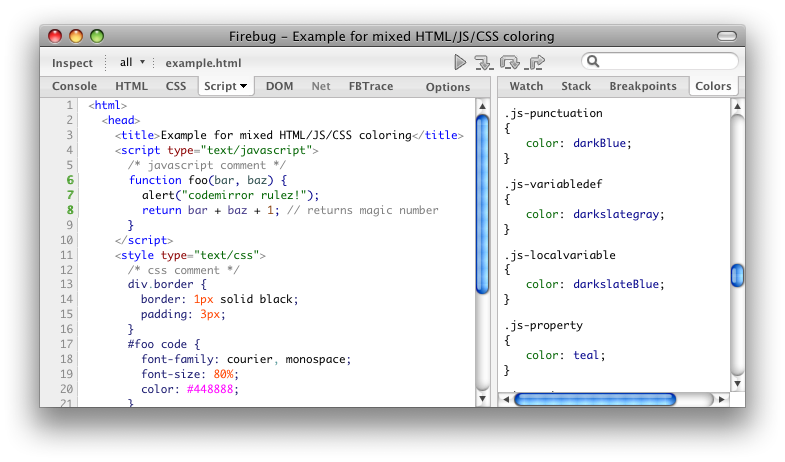
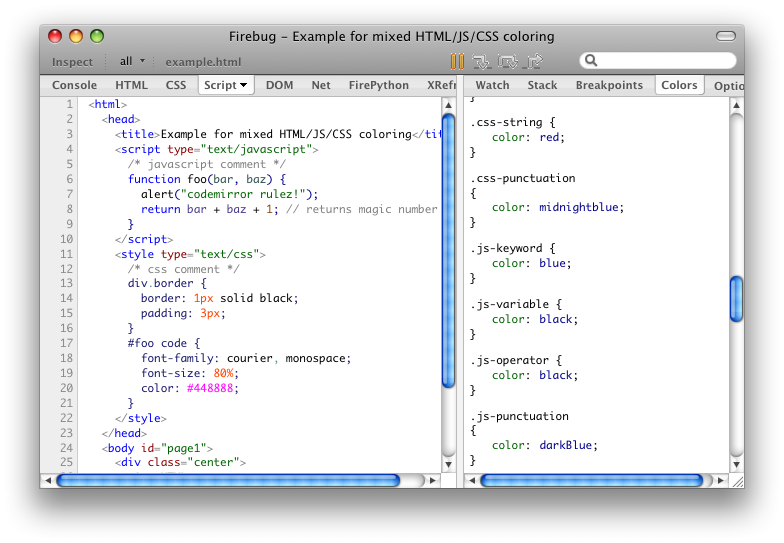
added example html file and new screenshot for upcoming release

Changed region(s): [[0.0306, 0.0303, 0.949, 0.9091], [0.0612, 0.3636, 0.1224, 0.5152], [0.9184, 0.4848, 0.949, 0.6364]]

diff --git a/support/example.html b/support/example.html
@@ -1,0 +1,30 @@
+<html>
+  <head>
+    <title>Example for mixed HTML/JS/CSS coloring</title>
+    <script type="text/javascript">
+      /* javascript comment */
+      function foo(bar, baz) {
+        alert("codemirror rulez!");
+        return bar + baz + 1; // returns magic number
+      }
+    </script>
+    <style type="text/css">
+      /* css comment */
+      div.border {
+        border: 1px solid black;
+        padding: 3px;
+      }
+      #foo code {
+        font-family: courier, monospace;
+        font-size: 80%;
+        color: #448888;
+      }
+    </style>
+  </head>
+  <body id="page1">
+    <div class="center">
+      <!-- HTML comment -->
+      <p>I'll tell you a secret ...</p>
+    </div>
+  </body>
+</html>
